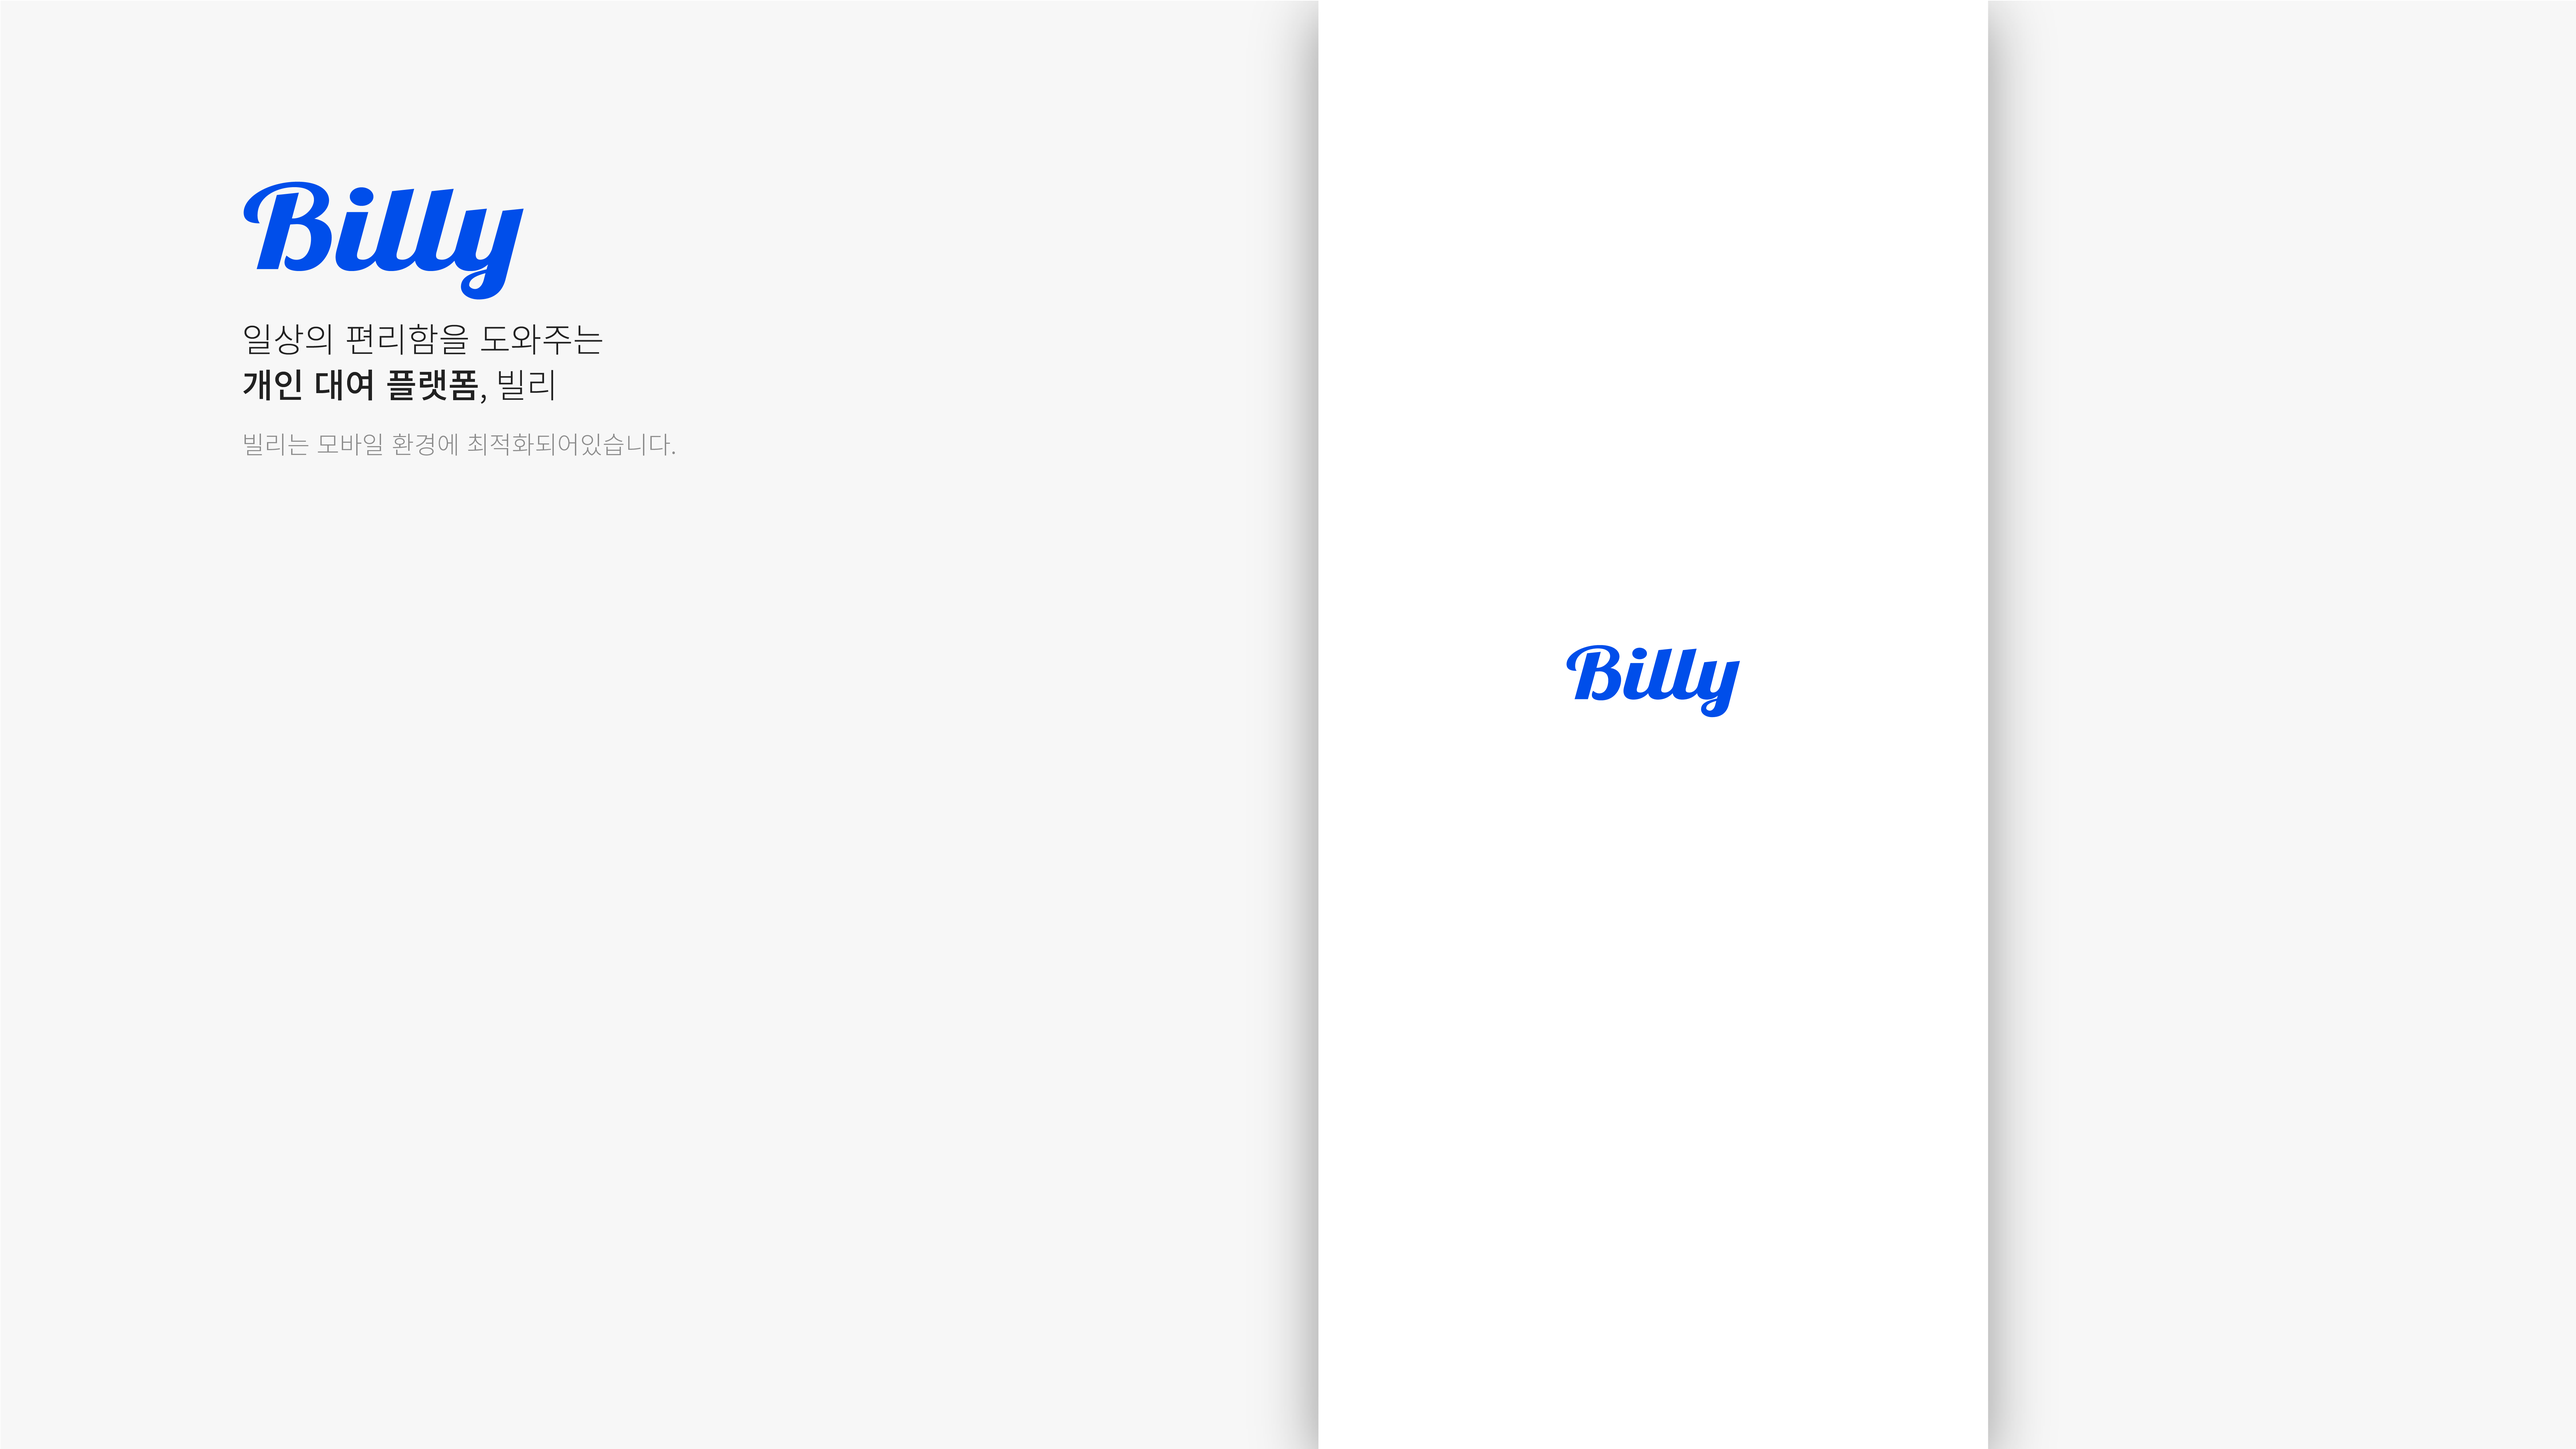
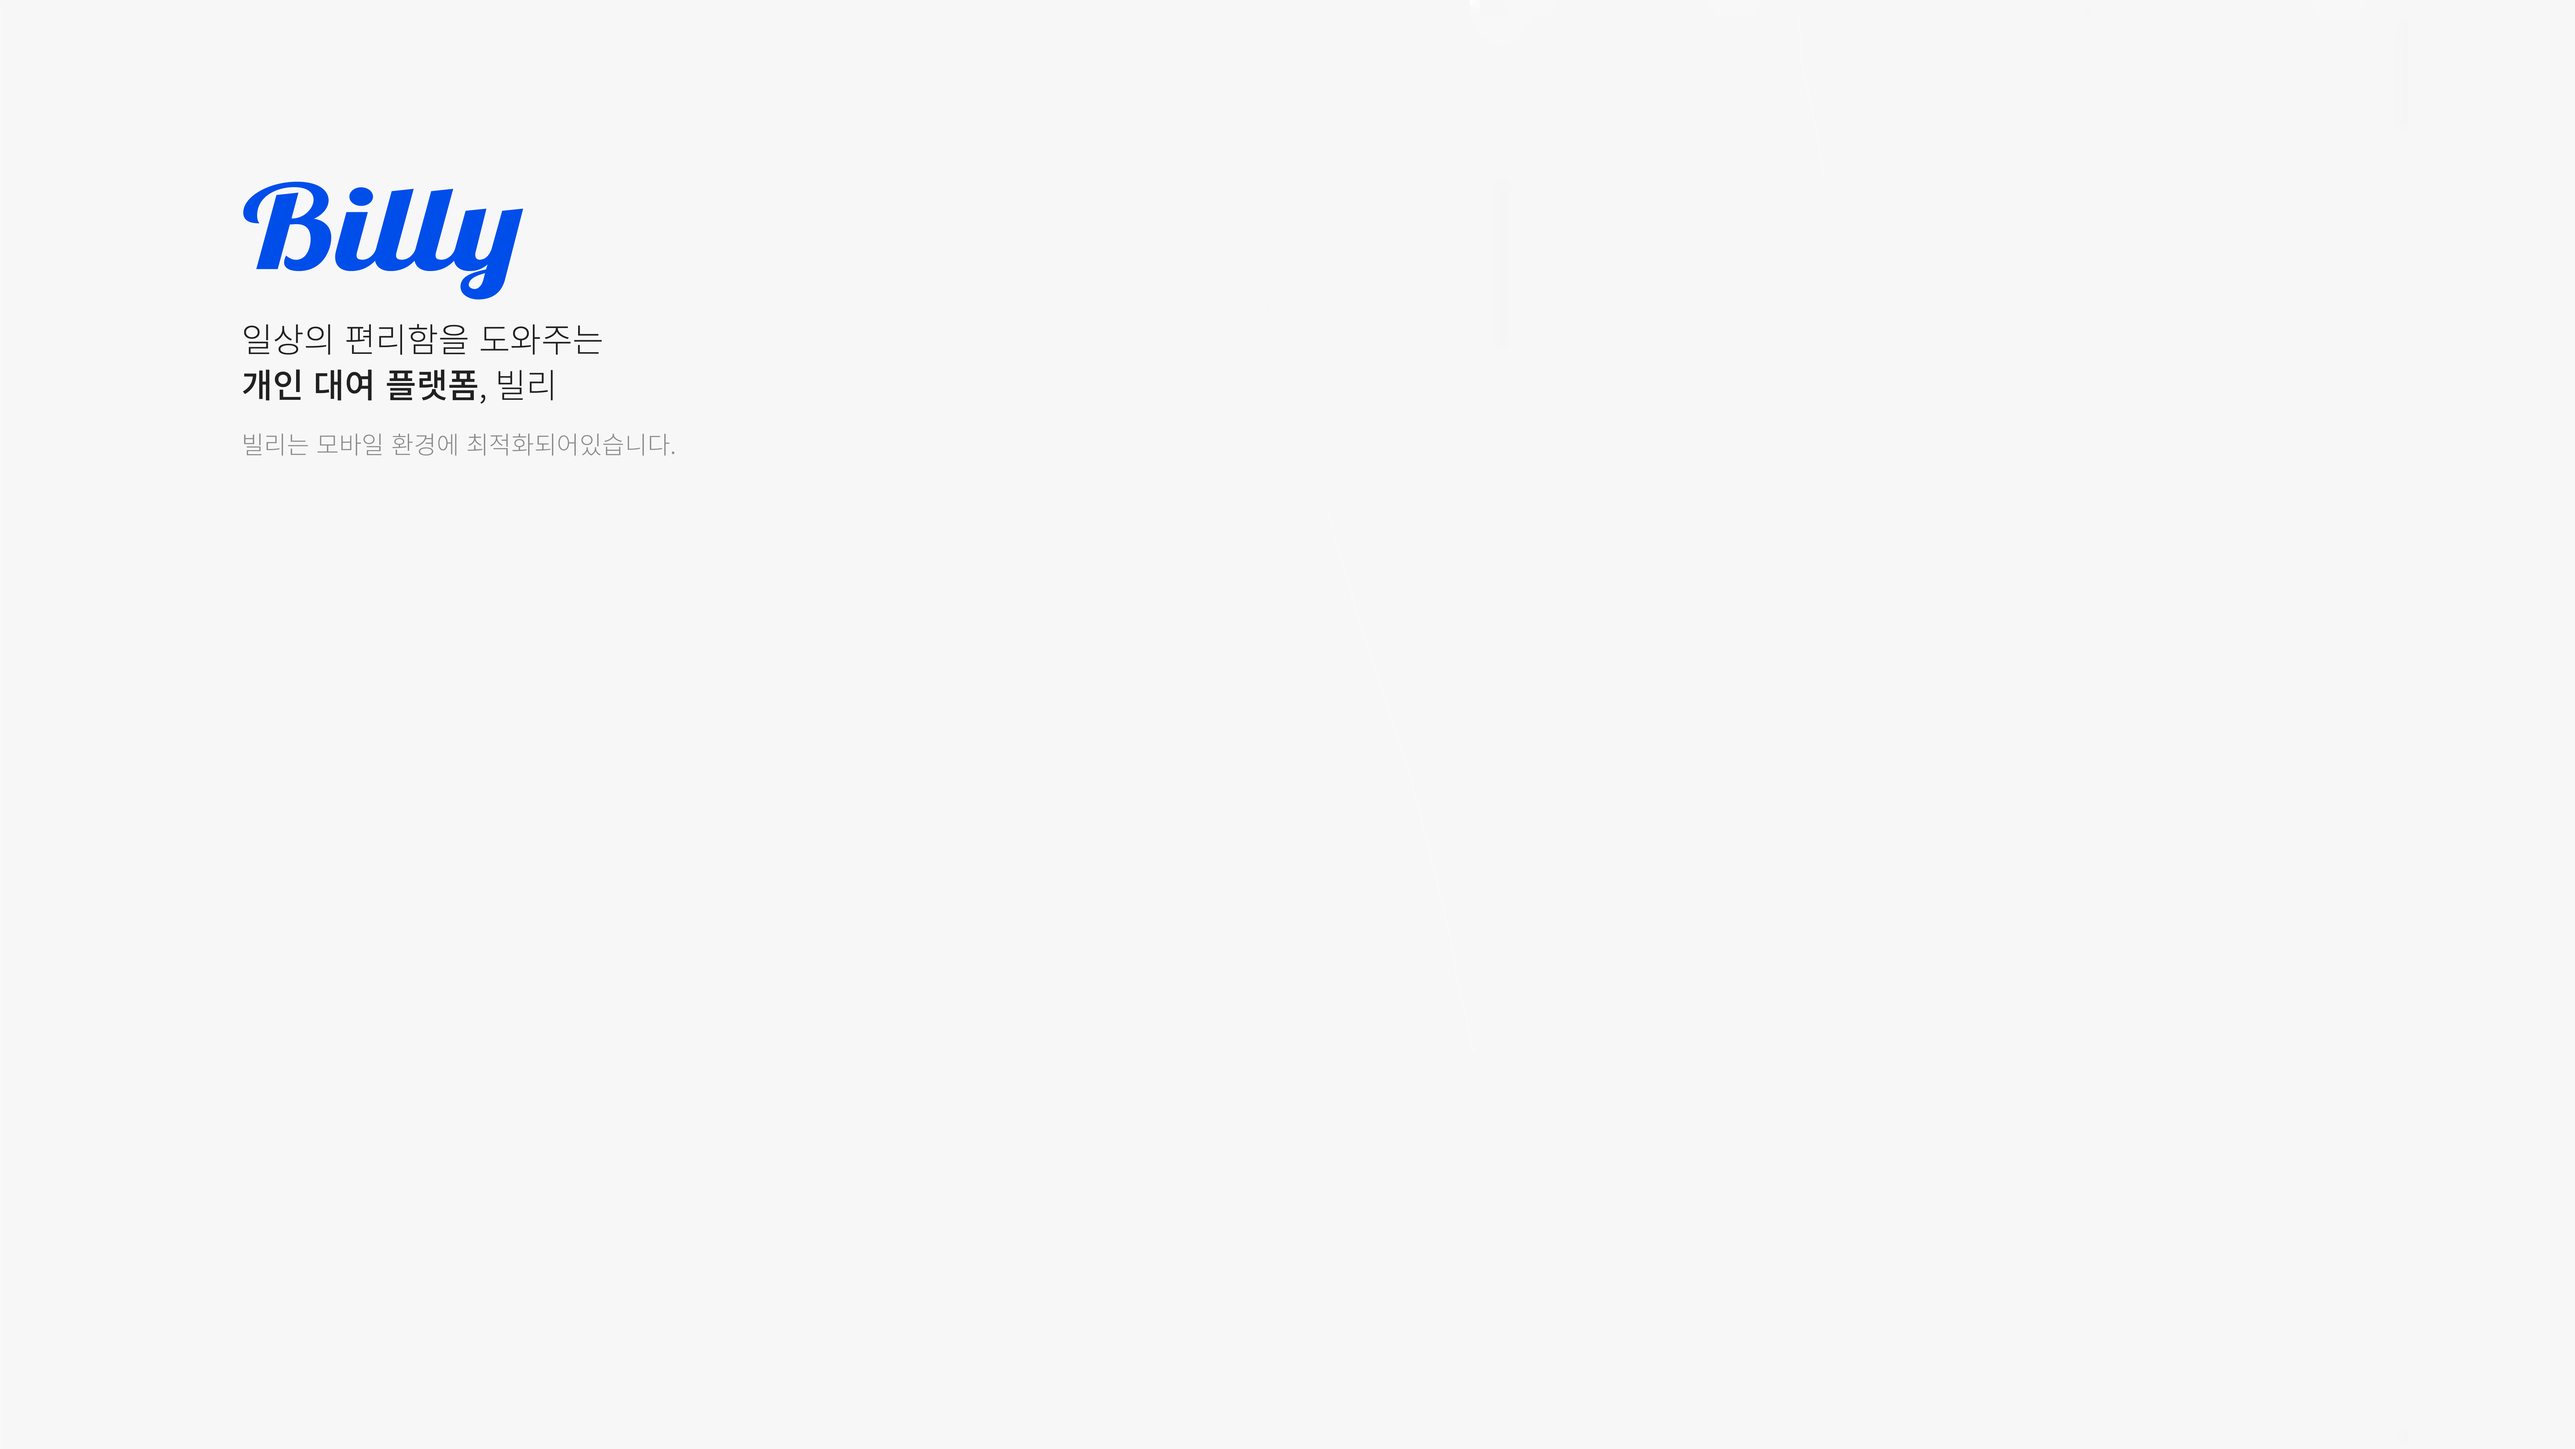
💄Style: 배경사진 수정

Changed region(s): [[0.747, 0.0312, 0.7781, 1.0], [0.498, 0.0312, 0.5291, 1.0], [0.5914, 0.4375, 0.6847, 0.5]]

diff --git a/src/index.css b/src/index.css
@@ -18,7 +18,7 @@ code {
 }
 @media all and (min-width: 900px) and (min-height: 500px) {
   body {
-    background-image: url('../public/logobackground.png');
+    background-image: url('../public/background.png');
     background-size: contain;
     background-position: center;
     background-repeat: no-repeat;
